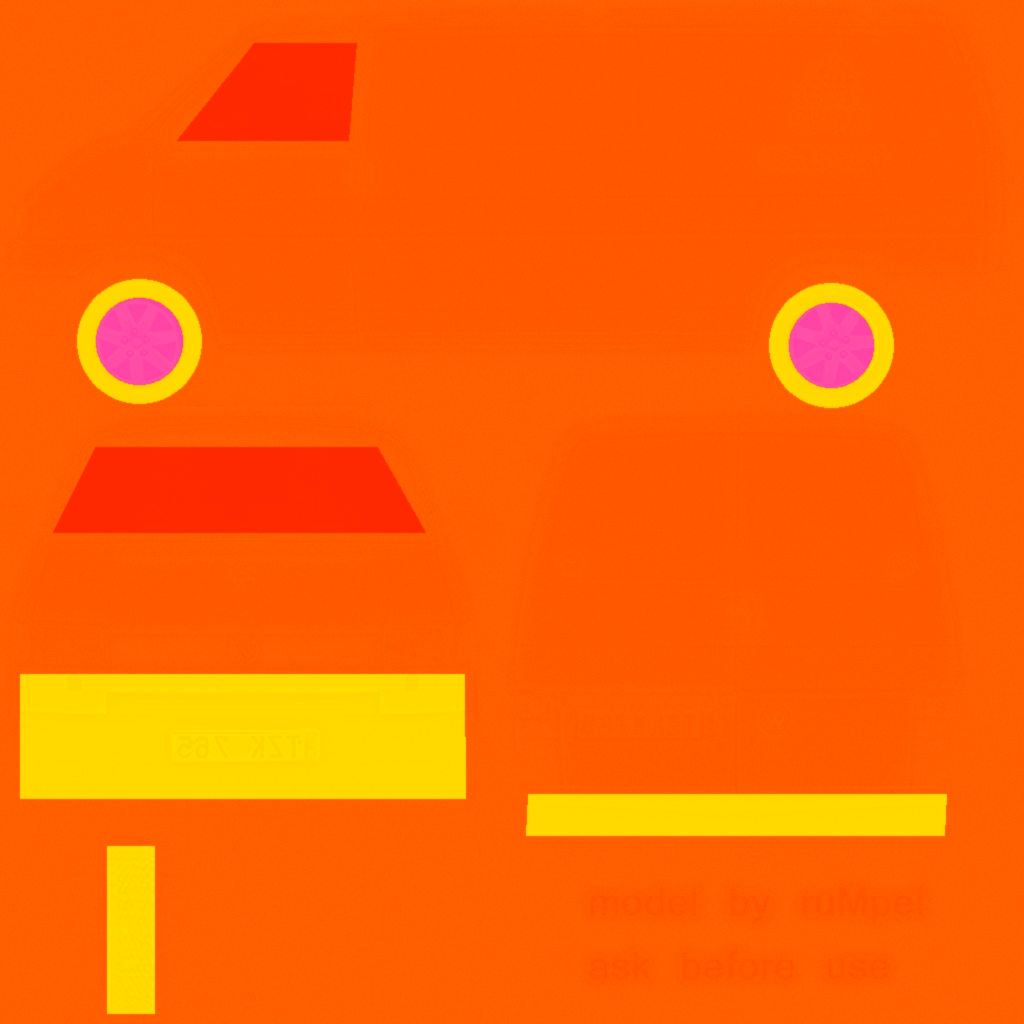
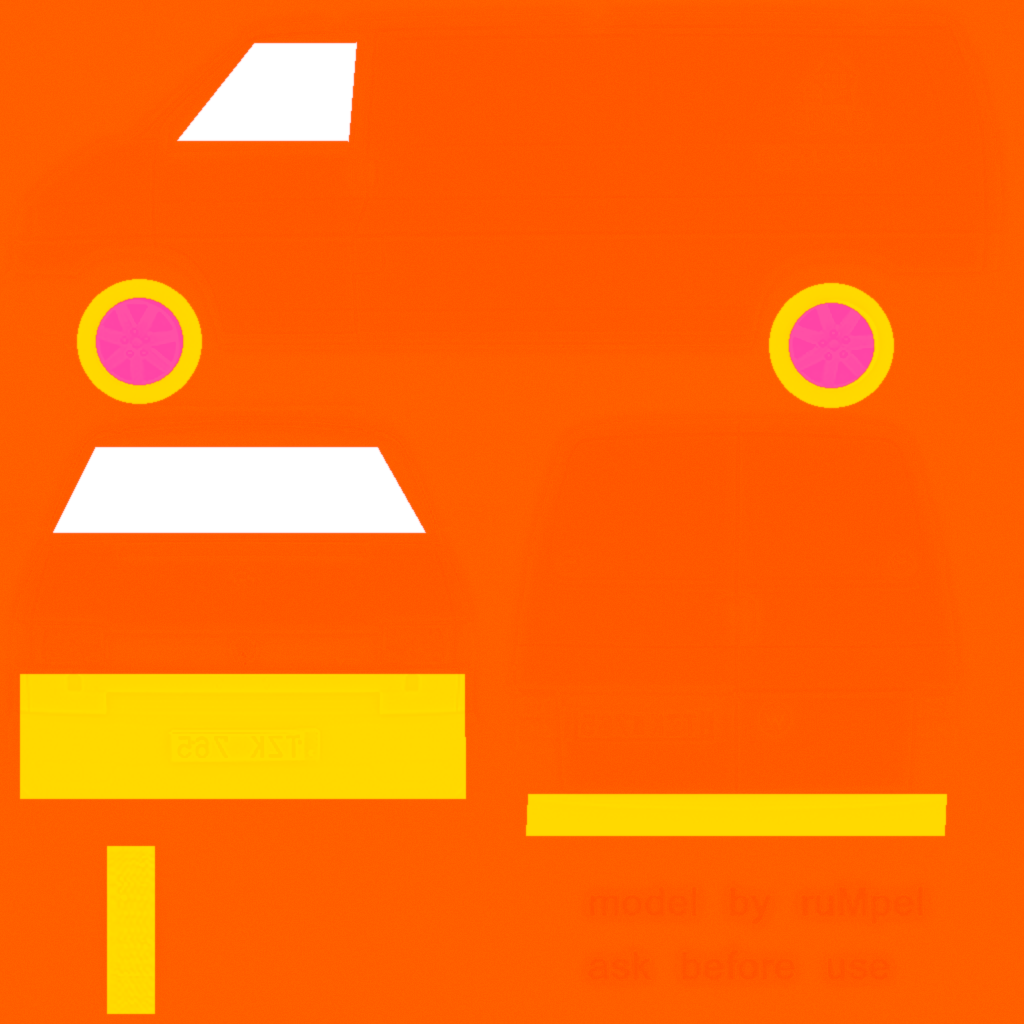
RTX Window

Changed region(s): [[0.0312, 0.4375, 0.4375, 0.5312], [0.1562, 0.0312, 0.375, 0.1562]]

diff --git a/tools/prepare_rtx_shaders.py b/tools/prepare_rtx_shaders.py
@@ -193,6 +193,26 @@ def prepare():
     shutil.copy2(ROOT/'src/cof/render/rtx_relief.glsl',hit.parent/'rtx_relief.glsl')
     text=hit.read_text()
     text=text.replace('#include "rtx_relief.glsl"','#include "rtx_relief.glsl"\n#include "rtx_surface_detail.glsl"')
+    text=text.replace('#include "rtx_surface_detail.glsl"','#include "rtx_surface_detail.glsl"\n#include "rtx_vehicle_glass.glsl"')
+    anchor='    if( tr.occlusionRougnessMetallicTexture != MATERIAL_NO_TEXTURE )'
+    if text.count(anchor)!=1:raise ValueError('Vehicle glass ORM hook changed')
+    text=text.replace(anchor,'    float cofGlassCoverage=0.0;\n'+anchor)
+    text=text.replace('const vec3 orm =','const vec4 orm =')
+    for sample in (
+        'getTextureSampleGrad( tr.occlusionRougnessMetallicTexture, texCoords[ 0 ], dTdx[ 0 ], dTdy[ 0 ] )',
+        'getTextureSampleDerivSet( tr.occlusionRougnessMetallicTexture, texCoords[ 0 ], derivSet, 0 )',
+        'getTextureSampleLod( tr.occlusionRougnessMetallicTexture, texCoords[ 0 ], lod )',
+    ):
+        if text.count(sample+'.xyz')!=1:raise ValueError('Vehicle glass channel hook changed')
+        text=text.replace(sample+'.xyz',sample)
+    anchor='        h.metallic  = orm[ 2 ];'
+    if text.count(anchor)!=1:raise ValueError('Vehicle glass material hook changed')
+    text=text.replace(anchor,anchor+'''
+        if(orm.a<.999 && tr.normalTexture!=MATERIAL_NO_TEXTURE) {
+            float marker=getTextureSampleLod(tr.normalTexture,texCoords[0],0).a;
+            cofGlassCoverage=cofVehicleGlass(orm,marker,h.albedo,h.roughness,h.metallic);
+        }
+''')
     anchor='        vec2 nrm ='
     if text.count(anchor)!=1:raise ValueError('Surface detail normal sample hook changed')
     text=text.replace(anchor,'        vec4 cofNormalSample =')
@@ -200,7 +220,7 @@ def prepare():
         nrm.xy = nrm.xy * 2.0 - vec2( 1.0 );'''
     if text.count(anchor)!=1:raise ValueError('Surface detail normal decode hook changed')
     text=text.replace(anchor,'''            ;
-        vec2 nrm = cofNormalSample.xy * 2.0 - vec2(1.0);
+        vec2 nrm = (cofNormalSample.xy * 2.0 - vec2(1.0))*(1.0-cofGlassCoverage);
     #if defined(HITINFO_INL_PRIM)
         cofSurfaceDetail(tr,texCoords[0],dTdx[0],dTdy[0],cofNormalSample.a,h.metallic,h.roughness,nrm);
     #elif defined(HITINFO_INL_RFL)
@@ -208,6 +228,7 @@ def prepare():
     #endif''')
     hit.write_text(text)
     shutil.copy2(ROOT/'src/cof/render/rtx_surface_detail.glsl',hit.parent/'rtx_surface_detail.glsl')
+    shutil.copy2(ROOT/'src/cof/render/rtx_vehicle_glass.glsl',hit.parent/'rtx_vehicle_glass.glsl')
     direct=target/'Shaders/RtRaygenDirect.rgen'
     text=direct.read_text().replace('#version 460','#version 460\n#extension GL_GOOGLE_include_directive : require',1)
     text=text.replace('#define MATERIAL_MAX_ALBEDO_LAYERS 0','#define MATERIAL_MAX_ALBEDO_LAYERS 4')

diff --git a/rtx_materials/author_vehicles.py b/rtx_materials/author_vehicles.py
@@ -139,10 +139,10 @@ def masks(image,layout):
     rng=np.random.default_rng(7231)
     grain=rng.uniform(-1,1,(h,w))
     rough=.31+.06*(1-lum)+detail*.13+grain*.012
-    rough=rough*(1-glass)+(.13+.035*(1-lum))*glass
+    rough=rough*(1-glass)+.055*glass
     rough=rough*(1-rubber)+(.85+detail*.15)*rubber
     rough=rough*(1-rim)+(.29+detail*.2)*rim
-    metal=.65*rim  # painted body and glass stay dielectric
+    metal=.65*rim  # glass coating is applied by the tagged hit shader
     seam=Image.new('L',(w,h));draw=ImageDraw.Draw(seam)
     for line in layout['seams']:
         draw.line([(x*w/1024,y*h/1024) for x,y in line],fill=255,width=max(1,round(w/512)))
@@ -156,13 +156,16 @@ def masks(image,layout):
     normal=np.ones((h,w,4));normal[...,0]=.5-np.clip(gx*3.2,-.65,.65)*.5
     normal[...,1]=.5-np.clip(gy*3.2,-.65,.65)*.5
     normal[...,2]=height;normal[...,3]=253/255  # shallow vehicle relief, no porous world grain
-    orm=np.ones((h,w,4));orm[...,1]=np.clip(rough,.10,.94);orm[...,2]=metal
+    # ORM alpha survives the renderer's NULL_ROUGHNESS_METALLIC swizzle (R
+    # does not). It is coverage metadata, never opacity, for tagged vehicles.
+    orm=np.ones((h,w,4));orm[...,3]=1-glass
+    orm[...,1]=np.clip(rough,.045,.94);orm[...,2]=metal
     return [Image.fromarray(np.rint(np.clip(a,0,1)*255).astype('uint8'),'RGBA') for a in (orm,normal)]
 
 
 def author(game,output):
     path=output/'manifest.json';manifest=json.loads(path.read_text())
-    manifest['channels']='ORM: G=perceptual roughness, B=metallic; N: RG=tangent slopes, B=height, A=254 world relief / 253 vehicle relief (255 legacy)'
+    manifest['channels']='ORM: G=perceptual roughness, B=metallic, A=inverse glass coverage for tagged vehicles (255 otherwise); N: RG=tangent slopes, B=height, A=254 world relief / 253 vehicle relief (255 legacy)'
     entries=[e for e in manifest['materials'] if not e['name'].startswith('vehicle_')]
     for model in sorted((game/'models/Props/Fordon').glob('*.mdl')):
         family=model.stem.split('_')[0]

diff --git a/rtx_materials/test_vehicle_masks.py b/rtx_materials/test_vehicle_masks.py
@@ -11,7 +11,7 @@ class VehicleMasks(unittest.TestCase):
         cls.source=Image.new('RGBA',(512,512),(100,90,80,255))
         cls.orm,cls.normal=masks(cls.source,LAYOUTS['aud'])
 
-    def test_atlas_materials_do_not_make_body_or_windows_metallic(self):
+    def test_atlas_glass_coverage_leaves_body_and_rubber_dielectric(self):
         glass=self.orm.getpixel((400,60))
         paint=self.orm.getpixel((400,145))
         rubber=self.orm.getpixel((400,190))
@@ -20,12 +20,15 @@ class VehicleMasks(unittest.TestCase):
         self.assertLess(paint[1],rubber[1])
         self.assertEqual((glass[2],paint[2],rubber[2]),(0,0,0))
         self.assertGreater(rim[2],128)
+        self.assertEqual(glass[3],0)  # only glass opts into the reflective coating
+        self.assertEqual((paint[3],rubber[3],rim[3]),(255,255,255))
+        self.assertLess(glass[1],20)  # smooth enough to retain recognizable reflections
 
-    def test_vehicle_marker_survives_mips_without_opacity_changes(self):
+    def test_vehicle_marker_and_neutral_ao_survive_mips(self):
         for mip in material_levels(self.normal):
             self.assertEqual(mip.getextrema()[3],(253,253))
         for mip in material_levels(self.orm,self.normal):
-            self.assertEqual(mip.getextrema()[3],(255,255))
+            self.assertEqual(mip.getextrema()[0],(255,255))
         height=np.asarray(self.normal)[...,2]
         self.assertGreater(int(height.min()),65)
         self.assertLess(int(height.max()),170)

diff --git a/rtx_materials/build.py b/rtx_materials/build.py
@@ -97,10 +97,14 @@ def build(source, output):
                     raise ValueError('Invalid mask dimensions/mode: ' + name)
                 channels = image.getextrema()
                 valid_alpha = ((255,255),(254,254),(253,253)) if suffix=='n' else ((255,255),)
-                if channels[3] not in valid_alpha or (suffix == 'orm' and channels[0] != (255, 255)):
+                vehicle = bool(entry.get('studio_texture'))
+                if ((not (suffix == 'orm' and vehicle) and channels[3] not in valid_alpha) or
+                    (suffix == 'orm' and channels[0] != (255, 255))):
                     raise ValueError('Unexpected opacity/AO in numeric mask: ' + name)
                 if suffix == 'orm':
                     with Image.open(source/'masks'/f'{name}_n.png') as normal:
+                        if vehicle and normal.getextrema()[3] != (253,253):
+                            raise ValueError('Vehicle glass requires the vehicle normal tag: '+name)
                         data = ktx2(image, normal)
                 else:
                     data = ktx2(image)

diff --git a/rtx_materials/GUIDE.md b/rtx_materials/GUIDE.md
@@ -29,8 +29,11 @@ material identification from a single color image.
 
 The `aud`, `vari`, `polisbil` and `foretag` families (including shipped color
 variants) have content-verified atlas masks for glass, painted panels, rubber
-and wheels. Windows reflect the traced scene with dielectric Fresnel response;
-the original painted cabin remains behind that surface. Door seams and handles
+and wheels. Windows use a dark, nearly mirror-smooth reflective coating. The
+RTX shader replaces the painted cabin's diffuse response only inside the glass
+mask, leaving window pillars and seals intact. This uses the existing metallic
+BRDF as an artistic coated-tint approximation, not a physical transparent cabin.
+Primary, reflected and indirect hits share that material. Door seams and handles
 receive shallow normal/parallax relief. No new interior, silhouette or collision
 geometry is reconstructed.
 
@@ -47,7 +50,11 @@ Only numeric PNGs and manifest fingerprints are exported. Original MDLs,
 palettes and color textures are read-only. The 30 vehicle PNGs occupy about
 20 MiB; building them does not require the original resources. Normal alpha
 253 marks shallow vehicle relief and excludes porous world grain; world masks
-retain alpha 254. Glass stays opaque because the models lack full interiors.
+retain alpha 254. Vehicle ORM.A stores inverse glass coverage (0=glass,
+255=body); it is metadata, not opacity. ORM.R stays 255: the renderer's default
+ORM swizzle forces R to one but preserves A. Glass uses flat shading normals, roughness
+0.055 and a dark neutral reflection tint. It does not borrow relief from the
+painted cabin. Glass stays opaque because the models lack full interiors.
 `rt_material_masks 0` plus map reload disables vehicle masks and mirror overrides.
 
 Verification: `python -m unittest discover -s rtx_materials`, native mip tests,
